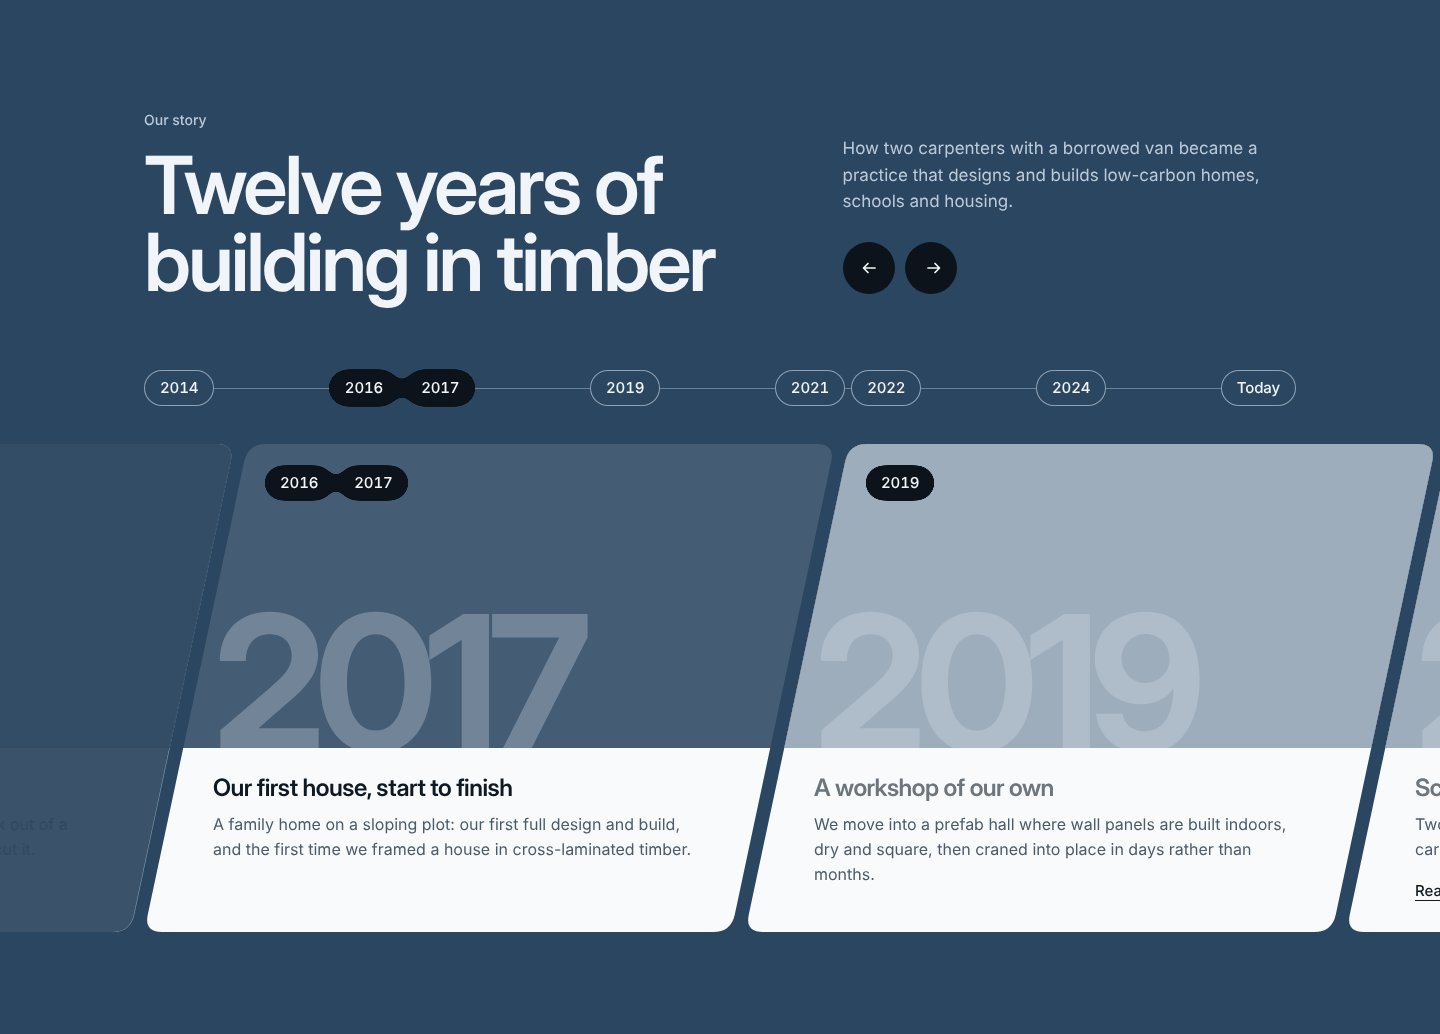
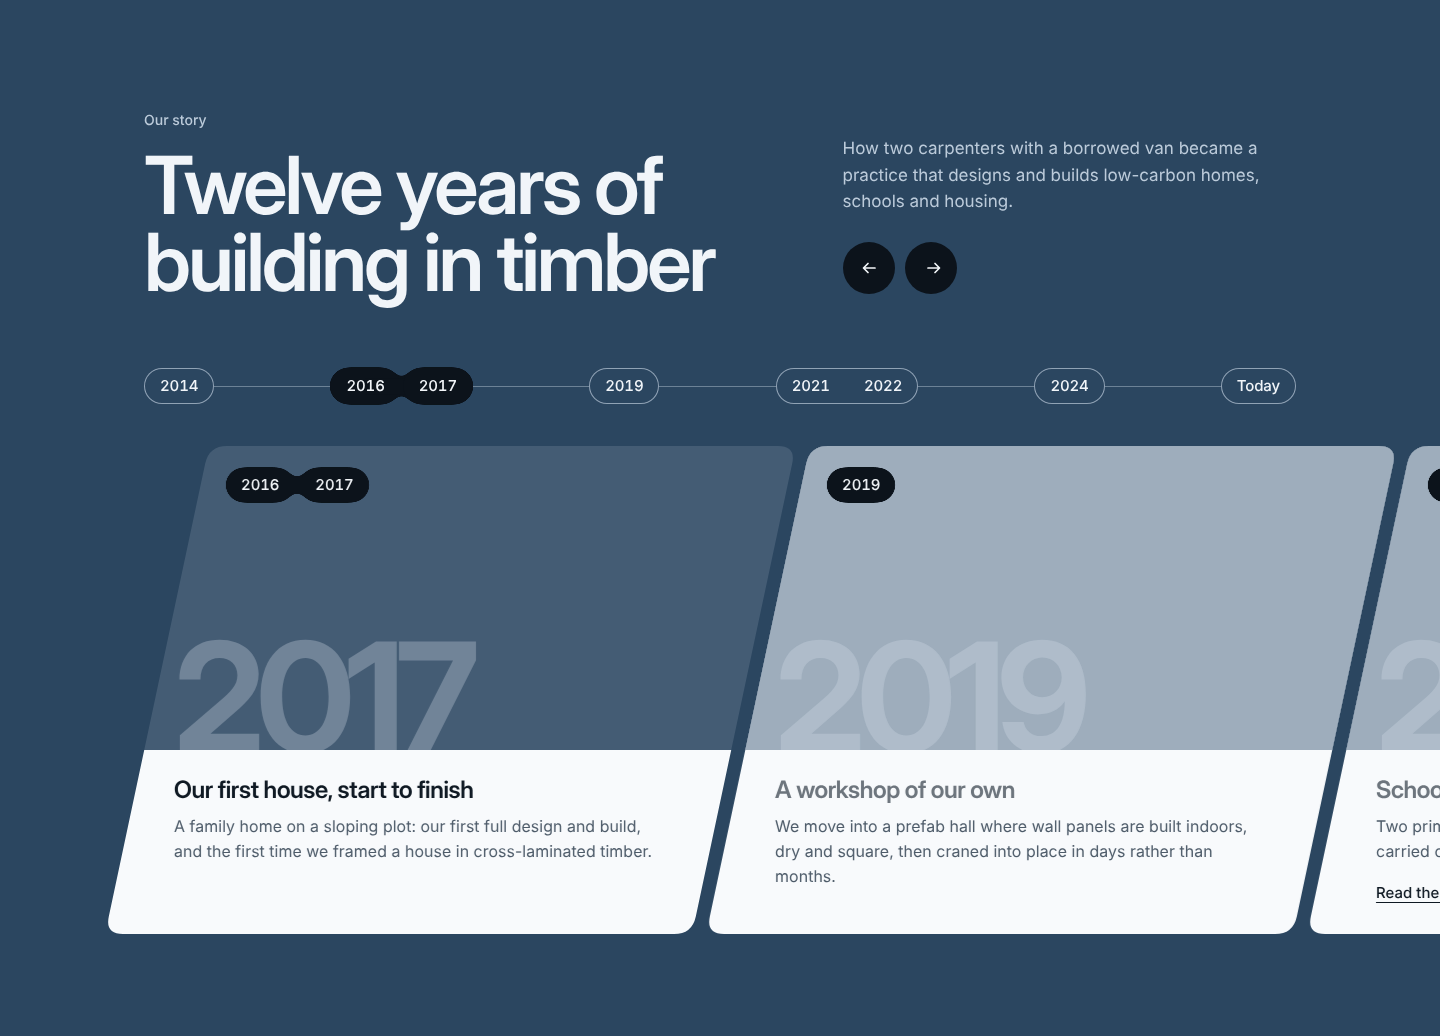
seam-history-timeline: round 1 fixes
Passed cards leave the frame, focused text holds the heading line, real
light graphite, one capsule per two-year milestone, no outlines under the
moving pill, focus ring on the current year, past vs future treatment,
imagePosition, failures keyed by URL.

Claude-Session: https://claude.ai/code/session_01TgBuMr7atYf2qaCYZsKAVj

diff --git a/components/seam-history-timeline/seam-history-timeline.tsx b/components/seam-history-timeline/seam-history-timeline.tsx
@@ -56,6 +56,8 @@ export type Milestone = {
   image?: string
   /** Describe the photo. Empty string marks it decorative. */
   alt?: string
+  /** CSS object-position for the photo, e.g. "50% 30%", to keep its subject in the crop. */
+  imagePosition?: string
   /** Optional link under the text, e.g. a case study. */
   href?: string
   linkLabel?: string
@@ -104,7 +106,7 @@ export const PRESETS = {
     dark: { field: "#131910", onField: "#ecf0e4", mutedOnField: "#a5af96", card: "#1d2519", ink: "#eef2e6", muted: "#abb59d", pill: "#ecf0e4", onPill: "#131910", wash: "#131910" },
   },
   graphite: {
-    light: { field: "#1f2226", onField: "#f2f3f4", mutedOnField: "#a8aeb5", card: "#2b2f34", ink: "#f0f2f4", muted: "#b3b9c0", pill: "#f0f2f4", onPill: "#16181b", wash: "#1f2226" },
+    light: { field: "#e4e5e7", onField: "#141619", mutedOnField: "#4c5259", card: "#ffffff", ink: "#141619", muted: "#50565d", pill: "#141619", onPill: "#f4f5f6", wash: "#eceef0" },
     dark: { field: "#111315", onField: "#eceef0", mutedOnField: "#9aa1a8", card: "#1c1f23", ink: "#eceef0", muted: "#a7adb4", pill: "#eceef0", onPill: "#111315", wash: "#111315" },
   },
   signal: {
@@ -143,9 +145,15 @@ export function focusAt(pos: number, i: number): number {
  * but never further than `maxShift` (the last card flush with the container).
  * Past the last milestone it keeps following, so the rubber band still reads.
  */
-export function trackShift(pos: number, step: number, maxShift: number, n: number): number {
-  if (pos > n - 1) return Math.min((n - 1) * step, maxShift) + (pos - (n - 1)) * step
-  return Math.min(pos * step, maxShift)
+export function trackShift(pos: number, step: number, maxShift: number, n: number, inset = 0): number {
+  const lean = inset * Math.max(0, Math.min(1, pos))
+  if (pos > n - 1) return Math.min((n - 1) * step + lean, maxShift) + (pos - (n - 1)) * step
+  return Math.min(pos * step + lean, maxShift)
+}
+
+/** Opacity of a card whose left edge is `x` px from the container's left: gone once well past it. */
+export function passedOpacity(x: number, step: number): number {
+  return 1 - Math.max(0, Math.min(1, (-x - step * 0.25) / (step * 0.35)))
 }
 
 /** Past an end the strip follows the pointer with growing resistance. */
@@ -291,22 +299,24 @@ const STYLES = `
 .sht__btn:not([disabled]):active{transform:scale(.96)}
 .sht__btn[disabled]{cursor:default;background:transparent;color:var(--muted-on-field);box-shadow:inset 0 0 0 1.5px currentColor;opacity:.55}
 .sht__btn:focus-visible,.sht__slot:focus-visible,.sht__link:focus-visible,.sht__viewport:focus-visible{outline:2px solid var(--on-field);outline-offset:3px}
-.sht__viewport:focus-visible{outline-offset:8px;border-radius:20px}
+@supports selector(:has(a)){.sht__viewport:focus-visible{outline:none}.sht:has(.sht__viewport:focus-visible) .sht__slot[aria-current]{outline:2px solid var(--on-field);outline-offset:4px}.sht:has(.sht__viewport:focus-visible) .sht__card[data-active=true] .sht__title{text-decoration:underline;text-decoration-thickness:2px;text-underline-offset:6px}}
 @media (hover:hover){.sht__btn:not([disabled]):hover [data-dir=next]{transform:translateX(3px)}.sht__btn:not([disabled]):hover [data-dir=prev]{transform:translateX(-3px)}}
-.sht__rail{position:relative;margin-top:clamp(40px,5vw,64px);overflow-x:auto;overflow-y:hidden;scrollbar-width:none}
+.sht__rail{position:relative;margin:clamp(34px,5vw,58px) -10px 0;padding:4px 10px;overflow-x:auto;overflow-y:hidden;scrollbar-width:none}
 .sht__rail::-webkit-scrollbar{display:none}
 .sht__rail[data-scroll=true]{-webkit-mask-image:linear-gradient(90deg,#000 calc(100% - 40px),transparent);mask-image:linear-gradient(90deg,#000 calc(100% - 40px),transparent)}
 .sht__railin{position:relative;display:flex;justify-content:space-between;gap:28px;min-width:max-content;width:100%;padding:6px 0}
 .sht__axis{position:absolute;z-index:-1;left:0;right:0;top:50%;height:1px;background:var(--muted-on-field);opacity:.45;pointer-events:none}
-.sht__slot{all:unset;position:static;display:inline-flex;gap:6px;cursor:pointer;border-radius:999px}
-.sht__chip{display:inline-grid;place-items:center;height:36px;padding:0 16px;border-radius:999px;background:var(--field);box-shadow:inset 0 0 0 1px color-mix(in oklab,var(--muted-on-field) 70%,transparent);font-size:15px;font-weight:500;letter-spacing:-.01em;font-variant-numeric:tabular-nums;color:var(--on-field);white-space:nowrap;transition:box-shadow .16s ease,transform .16s var(--ease)}
+.sht__slot{all:unset;position:static;display:inline-flex;gap:2px;cursor:pointer;border-radius:999px;background:var(--field);box-shadow:inset 0 0 0 1px color-mix(in oklab,var(--muted-on-field) 70%,transparent);transition:box-shadow .16s ease}
+.sht__slot[aria-current],.sht__slot[data-covered=true]{box-shadow:none}
+.sht__chip{display:inline-grid;place-items:center;height:36px;padding:0 16px;border-radius:999px;font-size:15px;font-weight:500;letter-spacing:-.01em;font-variant-numeric:tabular-nums;color:var(--on-field);white-space:nowrap;transition:transform .16s var(--ease)}
 .sht__slot:active .sht__chip{transform:scale(.96)}
-@media (hover:hover){.sht__slot:hover .sht__chip{box-shadow:inset 0 0 0 1.5px var(--on-field)}}
+@media (hover:hover){.sht__slot:not([aria-current]):hover{box-shadow:inset 0 0 0 1.5px var(--on-field)}}
 .sht__goo{position:absolute;inset:0;pointer-events:none}
 .sht__blob{position:absolute;top:6px;left:0;height:36px;border-radius:999px;background:var(--pill);will-change:transform,width}
 .sht__neck{position:absolute;left:0;top:24px;height:0;background:var(--pill);will-change:transform,width}
 .sht__lit{position:absolute;inset:0;display:flex;justify-content:space-between;gap:28px;padding:6px 0;pointer-events:none;will-change:clip-path}
-.sht__lit .sht__chip{background:transparent;box-shadow:none;color:var(--on-pill)}
+.sht__lit .sht__slot{background:transparent;box-shadow:none}
+.sht__lit .sht__chip{color:var(--on-pill)}
 .sht__viewport{position:relative;margin-top:clamp(20px,2.4vw,32px);touch-action:pan-y;cursor:grab;user-select:none;-webkit-user-select:none}
 .sht__viewport[data-dragging=true]{cursor:grabbing}
 .sht__track{display:flex;align-items:stretch;will-change:transform}
@@ -315,9 +325,9 @@ const STYLES = `
 .sht__photo{position:relative;height:var(--ph);overflow:hidden;background:color-mix(in oklab,var(--field) 80%,var(--card))}
 .sht__photo img{position:absolute;inset:0;width:100%;height:100%;max-width:none;object-fit:cover;display:block;-webkit-user-drag:none}
 .sht__plate{position:absolute;inset:0;display:flex;align-items:flex-end;padding:0 0 0 var(--padl);overflow:hidden;background:color-mix(in oklab,var(--field) 86%,var(--on-field))}
-.sht__plate span{font-family:var(--display-font);font-weight:700;font-size:calc(var(--ph) * .62);line-height:.74;letter-spacing:-.06em;color:color-mix(in oklab,var(--field) 62%,var(--on-field));white-space:nowrap;transform:translateY(.02em)}
+.sht__plate span{font-family:var(--display-font);font-weight:700;font-size:min(calc(var(--ph) * .62),calc(var(--cw) * .22));line-height:.74;letter-spacing:-.06em;color:color-mix(in oklab,var(--field) 62%,var(--on-field));white-space:nowrap;transform:translateY(.02em)}
 .sht__wash{position:absolute;inset:0;background:var(--wash);pointer-events:none}
-.sht__veil{position:absolute;inset:0;z-index:2;background:var(--field);opacity:0;pointer-events:none}
+.sht__past{position:absolute;inset:0;background:var(--field);opacity:0;pointer-events:none}
 .sht__pills{position:absolute;top:22px;left:var(--pillx);display:inline-flex}
 .sht__pgoo,.sht__ptext{display:inline-flex;gap:6px}
 .sht__pgoo{position:relative}
@@ -327,7 +337,7 @@ const STYLES = `
 .sht__ptext span{display:inline-grid;place-items:center;height:34px;padding:0 15px;font-size:15px;font-weight:500;letter-spacing:-.01em;font-variant-numeric:tabular-nums;color:var(--on-pill);white-space:nowrap}
 .sht__pgoo i.sht__sizer{padding:0 15px;font-size:15px;font-weight:500;letter-spacing:-.01em;font-variant-numeric:tabular-nums;color:transparent;line-height:34px;white-space:nowrap}
 .sht__text{flex:1;display:flex;flex-direction:column;gap:10px;padding:26px var(--padr) 30px var(--padl);min-height:170px}
-.sht__title{margin:0;font-family:var(--display-font);font-size:clamp(20px,1.7vw,24px);line-height:1.18;font-weight:600;letter-spacing:-.02em;color:color-mix(in oklab,var(--ink) calc(55% + var(--f) * 45%),var(--card))}
+.sht__title{margin:0;font-family:var(--display-font);font-size:clamp(20px,1.7vw,24px);line-height:1.18;font-weight:600;letter-spacing:-.02em;color:color-mix(in oklab,var(--ink) calc(var(--t,1) * 100%),var(--card))}
 .sht__body{margin:0;font-size:16px;line-height:1.55;color:var(--muted);max-width:52ch}
 .sht__link{align-self:flex-start;margin-top:auto;padding-top:8px;font-size:15px;font-weight:500;color:var(--ink);text-decoration:underline;text-underline-offset:4px;text-decoration-thickness:1px;display:inline-flex;align-items:center;gap:8px;border-radius:4px}
 .sht__link svg{width:16px;height:16px;transition:transform .18s var(--ease)}
@@ -425,7 +435,7 @@ export default function SeamHistoryTimeline({
   const controlled = typeof index === "number"
   const [inner, setInner] = React.useState(() => clampIndex(startIndex, n))
   const active = controlled ? clampIndex(index as number, n) : inner
-  const [failed, setFailed] = React.useState(() => ({}) as { [k: number]: boolean })
+  const [failed, setFailed] = React.useState(() => ({}) as { [url: string]: boolean })
   const [announce, setAnnounce] = React.useState("")
   const [dragging, setDragging] = React.useState(false)
   const [geo, setGeo] = React.useState({ cw: 0, ph: 0, h: 0, o: 0, vw: 0, mobile: false })
@@ -449,6 +459,7 @@ export default function SeamHistoryTimeline({
     target: clampIndex(startIndex, n),
     step: 1,
     maxShift: 0,
+    inset: 0,
     L: { x: 0, v: 0 } as Spring,
     Lw: { x: 0, v: 0 } as Spring,
     R: { x: 0, v: 0 } as Spring,
@@ -490,17 +501,26 @@ export default function SeamHistoryTimeline({
   const paint = React.useCallback(() => {
     const s = sim.current
     const track = trackRef.current
-    const shift = trackShift(s.pos.x, s.step, s.maxShift, n)
+    const shift = trackShift(s.pos.x, s.step, s.maxShift, n, s.inset)
     if (track) track.style.transform = "translate3d(" + (-shift).toFixed(2) + "px,0,0)"
     for (let i = 0; i < n; i++) {
       const f = focusAt(s.pos.x, i)
+      const hov = s.hov[i] || 0
       const el = cardRefs.current[i]
-      if (el) el.style.setProperty("--f", f.toFixed(3))
+      if (el) {
+        el.style.setProperty("--t", Math.min(1, 0.55 + 0.45 * f + 0.2 * hov * (1 - f)).toFixed(3))
+        // A milestone that has slid past the left edge leaves the frame completely.
+        const op = passedOpacity(i * s.step - shift, s.step)
+        el.style.opacity = op.toFixed(3)
+        el.style.pointerEvents = op < 0.5 ? "none" : ""
+      }
+      // Still to come: a pale haze. Already passed: it recedes toward the field.
+      const amount = wash * (1 - f) * (1 - 0.4 * hov)
+      const ahead = i > s.pos.x
       const w = washRefs.current[i]
-      if (w) w.style.opacity = (wash * (1 - f) * (1 - 0.4 * (s.hov[i] || 0))).toFixed(3)
-      // Milestones already passed recede into the field rather than hanging cut off in the margin.
+      if (w) w.style.opacity = (ahead ? amount : 0).toFixed(3)
       const v = veilRefs.current[i]
-      if (v) v.style.opacity = (0.93 * Math.max(0, Math.min(1, (shift - i * s.step - s.step * 0.3) / (s.step * 0.5)))).toFixed(3)
+      if (v) v.style.opacity = (ahead ? 0 : amount).toFixed(3)
     }
     if (s.railReady) {
       const L = s.L.x
@@ -526,11 +546,17 @@ export default function SeamHistoryTimeline({
         nk.style.width = (b - a).toFixed(2) + "px"
         nk.style.height = t.toFixed(2) + "px"
       }
+      const left = Math.min(L, R)
+      const right = Math.max(L + lw, R + rw)
       const lit = litRef.current
-      if (lit) {
-        const left = Math.min(L, R)
-        const right = Math.max(L + lw, R + rw)
-        lit.style.clipPath = "inset(0 " + Math.max(0, s.railW - right).toFixed(1) + "px 0 " + Math.max(0, left).toFixed(1) + "px)"
+      if (lit) lit.style.clipPath = "inset(0 " + Math.max(0, s.railW - right).toFixed(1) + "px 0 " + Math.max(0, left).toFixed(1) + "px)"
+      // Hide the outline of any year the liquid is passing over, so no ring shows from under it.
+      for (let i = 0; i < n; i++) {
+        const slot = slotRefs.current[i]
+        const t = s.railTargets[i]
+        if (!slot || !t) continue
+        const covered = Math.min(right, t.r + t.rw) - Math.max(left, t.l) > 2 ? "true" : "false"
+        if (slot.dataset.covered !== covered) slot.dataset.covered = covered
       }
     }
   }, [n, wash])
@@ -711,8 +737,11 @@ export default function SeamHistoryTimeline({
     sim.current.step = step
     // The strip stops when the last card is flush with the container, instead of leaving an empty field.
     sim.current.maxShift = Math.max(0, (n - 1) * step + geo.cw - vpW)
+    // Past the first milestone the strip also moves by the seam's lean at the text line, so the
+    // focused card's text always lines up with the heading.
+    sim.current.inset = geo.h ? Math.round(geo.o * (1 - geo.ph / geo.h)) : 0
     paint()
-  }, [step, paint, n, geo.cw, vpW])
+  }, [step, paint, n, geo.cw, vpW, geo.o, geo.ph, geo.h])
 
   // Follow the active index.
   const first = React.useRef(true)
@@ -977,7 +1006,7 @@ export default function SeamHistoryTimeline({
               const padl = (slantL ? Math.round(o * (1 - geo.ph / H)) : 0) + padBase
               const padr = (slantR ? o : 0) + padBase
               const pillx = (slantL ? Math.round(o * (1 - 22 / H)) : 0) + (geo.mobile ? 16 : 22)
-              const showImg = m.image && !failed[i]
+              const showImg = !!m.image && !failed[m.image]
               return (
                 <div
                   key={i}
@@ -1025,7 +1054,8 @@ export default function SeamHistoryTimeline({
                         loading={Math.abs(i - (controlled ? (index as number) : startIndex)) <= 1 ? "eager" : "lazy"}
                         decoding="async"
                         draggable={false}
-                        onError={() => setFailed((f) => ({ ...f, [i]: true }))}
+                        onError={() => setFailed((f) => ({ ...f, [m.image as string]: true }))}
+                        style={m.imagePosition ? { objectPosition: m.imagePosition } : undefined}
                       />
                     ) : (
                       <div className="sht__plate" aria-hidden="true">
@@ -1038,15 +1068,14 @@ export default function SeamHistoryTimeline({
                         washRefs.current[i] = el
                       }}
                     />
+                    <div
+                      className="sht__past"
+                      ref={(el) => {
+                        veilRefs.current[i] = el
+                      }}
+                    />
                     <CardPills years={years[i]} filter={filterId} />
                   </div>
-                  <div
-                    className="sht__veil"
-                    aria-hidden="true"
-                    ref={(el) => {
-                      veilRefs.current[i] = el
-                    }}
-                  />
                   <div className="sht__text">
                     <h3 className="sht__title">{m.title}</h3>
                     {m.body ? <p className="sht__body">{m.body}</p> : null}

diff --git a/components/seam-history-timeline/README.md b/components/seam-history-timeline/README.md
@@ -5,8 +5,9 @@ off the right edge of the section. Each card is a photo over a title and a sente
 Neighbouring cards meet on a **slanted seam**: real `clip-path` parallelograms that share one
 angle, with rounded corners, so the field colour shows through as a thin slanted gutter.
 
-The milestone in focus is in full colour. The ones still to come sit under a haze of the wash
-colour; the ones already passed recede into the field. Above the strip, a **year rail** is the
+The milestone in focus is in full colour, its text always on the heading's left line. The ones
+still to come sit under a pale haze; a passed one that is still in view recedes toward the field
+colour, and once it slides past the left edge it leaves the frame completely. Above the strip, a **year rail** is the
 timeline's axis and its navigation: a dark liquid pill sits on the current year and flows to
 the next when you move. The leading end runs ahead, the trailing end follows, and a neck
 pinches between them through an SVG goo filter (pill shapes go through the filter; the years
@@ -16,11 +17,15 @@ years rests as two fused pills, on the rail and on its photo.
 - Drag the strip (pointer capture, momentum, a flick always moves one milestone, rubber-band
   at the ends), scroll it sideways with a trackpad or Shift + wheel (vertical page scroll is
   never captured), click a year on the rail, click a hazed card, use the buttons, or focus the
-  strip and use ← → Home End.
+  strip and use ← → Home End. The arrow keys work from anywhere inside the section, including
+  the buttons and the rail years (but never inside a text field).
 - A polite live region announces each milestone ("2021 to 2022. Schools and a library.").
   The rail years are buttons with `aria-current="step"`; each card is a labelled group.
 - Images fail gracefully: without an image, or if it does not load, the card shows a plate in
   the field colour with the year set large.
+- A two-year milestone is one capsule on the rail, so it reads as one target.
+- Keyboard focus on the strip rings the current year and underlines the focused title (the
+  cards are clipped by their seams, so an outline would be cut).
 - Light and dark versions of every preset. `theme="auto"` follows a `.dark` class on any
   ancestor (the shadcn / Tailwind convention).
 - Under `prefers-reduced-motion` the strip and the pill jump instead of flowing.
@@ -34,11 +39,11 @@ section sizes to its content (`minHeight` is optional).
 
 | Prop | Default | |
 |---|---|---|
-| `milestones` | six milestones of a timber builder | `{ years, title, body?, image?, alt?, href?, linkLabel? }[]`. `years` is `2019`, `[2021, 2022]`, `"2021-2022"`, `"2021 to 2022"` or a word such as `"Today"`. |
+| `milestones` | six milestones of a timber builder | `{ years, title, body?, image?, alt?, imagePosition?, href?, linkLabel? }[]`. `imagePosition` is a CSS `object-position` (e.g. `"50% 30%"`) to keep a photo's subject in the wide crop. `years` is `2019`, `[2021, 2022]`, `"2021-2022"`, `"2021 to 2022"` or a word such as `"Today"`. |
 | `eyebrow` | "Our story" | Small label over the heading. `""` drops it. |
 | `heading` | "Twelve years of building in timber" | The section's `h2`. |
 | `intro` | one sentence | Any node, beside the buttons. |
-| `preset` | `"harbour"` | `harbour` (steel blue), `moss`, `graphite`, `signal` (orange). Each has a designed dark version. |
+| `preset` | `"harbour"` | `harbour` (steel blue), `moss`, `graphite` (ink on paper; near-black when dark), `signal` (orange). Each has a designed dark version. |
 | `palette` / `darkPalette` | none | Override any of `field`, `onField`, `mutedOnField`, `card`, `ink`, `muted`, `pill`, `onPill`, `wash`. |
 | `theme` | `"auto"` | `"auto"`, `"light"` or `"dark"`. |
 | `seamAngle` | `12` | Lean of the seams in degrees, `0` to `24`. `0` gives straight gutters. |

diff --git a/media/seam-history-timeline/review.md b/media/seam-history-timeline/review.md
@@ -38,3 +38,23 @@ clean neck), haze that reads as "not yet" (wash toward the field, no blur, no sc
 clip-path seams that survive 375 px, a confident field colour rather than pale blue-white,
 and full usability (drag with momentum, horizontal-only wheel, keys, buttons, live region,
 onChange / startIndex, a second demo with another company in graphite).
+
+## Round 1 (fresh critic): REDO
+
+| | Score |
+|---|---|
+| (u) usability | 8 |
+| (a) idea | 7 |
+| (b) craft | 6 |
+| (c) originality | 7 |
+| (d) install-safety | 9 |
+
+Average 7.4, craft under 7. Ranked changes: (1) passed cards left text fragments at the left
+edge (a 93% veil still let 7% through): fade passed cards out completely; (2) the focused
+card's text column moved between index 0 and later indices: shift by the seam inset so it
+always lines up with the heading; (3) graphite had no real light version; (4) two-year
+milestones read as two separate chips on the rail at rest; (5) chip outlines showed from under
+the moving pill; (6) the strip's focus ring was a big rectangle cutting through cards; (7) at
+the end of the strip the passed card carried the "not yet" haze; (8) the fallback numeral
+clipped on phones; (9) add `imagePosition`, key image failures by URL, document keys; (10)
+optional: a clearer hover answer on hazed cards.
